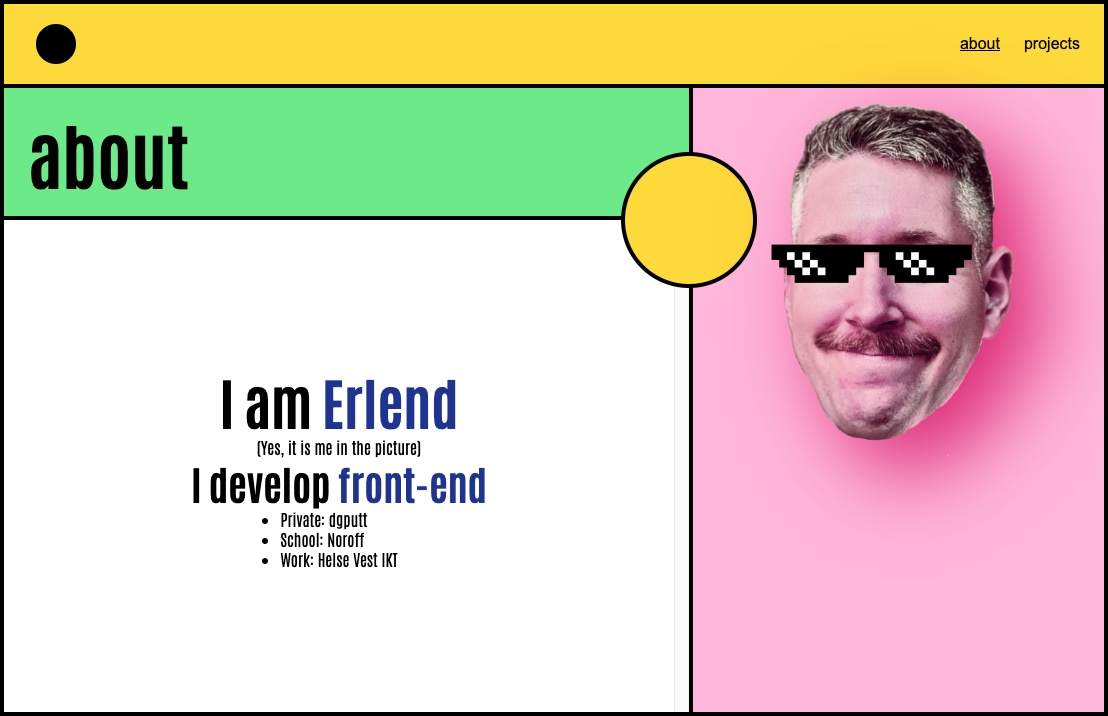
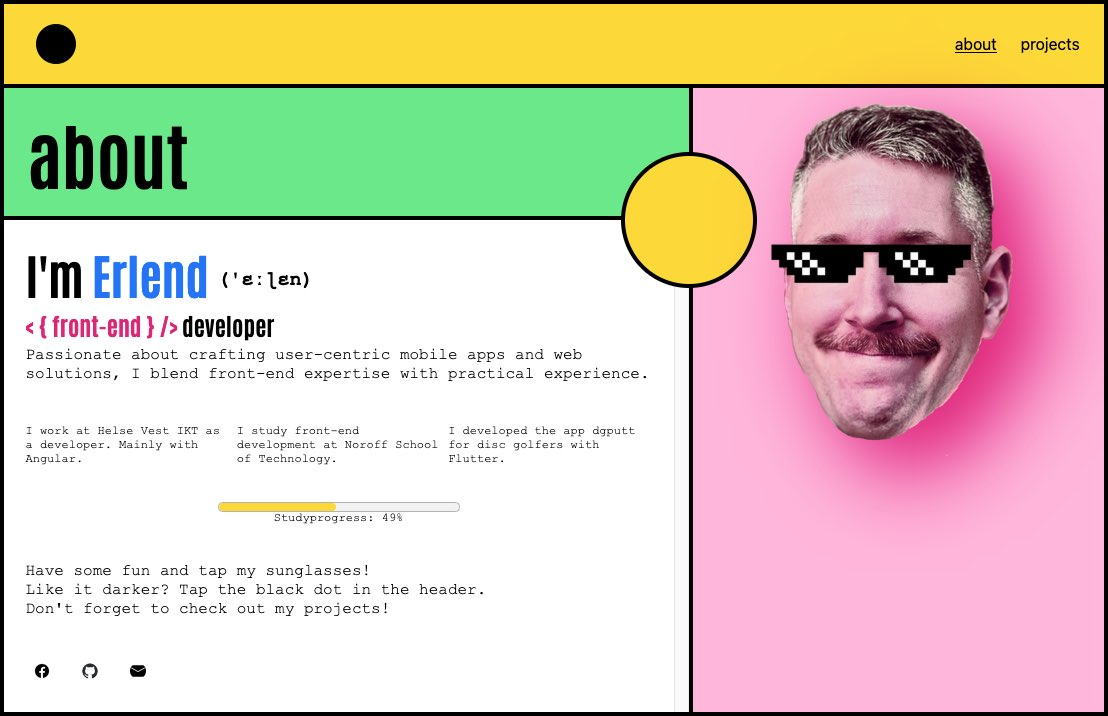
minor improvements

diff --git a/js/content/aboutContent.js b/js/content/aboutContent.js
@@ -24,8 +24,8 @@ export function aboutContent() {
     mainContent.innerHTML =
         `<div class="main-content__about">
             <div class="about__about">
-                <h2 class="about__header">I'm <span class="text-contrast">Erlend</span></h2>
-                <h3 class="about__sub-header">A <span class="text-contrast2">{front-end}</span> developer from Norway</h3>
+                <h2 class="about__header">I'm <span class="text-contrast">Erlend</span> <span style="vertical-align: middle; font-size: 1.25rem; font-family: 'Courier New'">('ɛːɭɛn)</span></h2>
+                <h3 class="about__sub-header"><span class="text-contrast2">< { front-end } /></span> developer</h3>
                 <p class="about__paragraph">Passionate about crafting user-centric mobile apps and web solutions, I blend front-end expertise with practical experience.</p> 
             </div>
             <div class="about__showcase">

diff --git a/components/main/main.css b/components/main/main.css
@@ -130,7 +130,7 @@
 
 .study-progress__progress {
     width: 90%;
-    height: 1rem;
+    height: 8px;
     max-width: 15rem;
     background-color: #f2f2f2;
     border-radius: 8px;
@@ -140,7 +140,7 @@
 }
 
 .progress__bar {
-    height: 1rem;
+    height: 100%;
     border-radius: 8px;
 }
 
